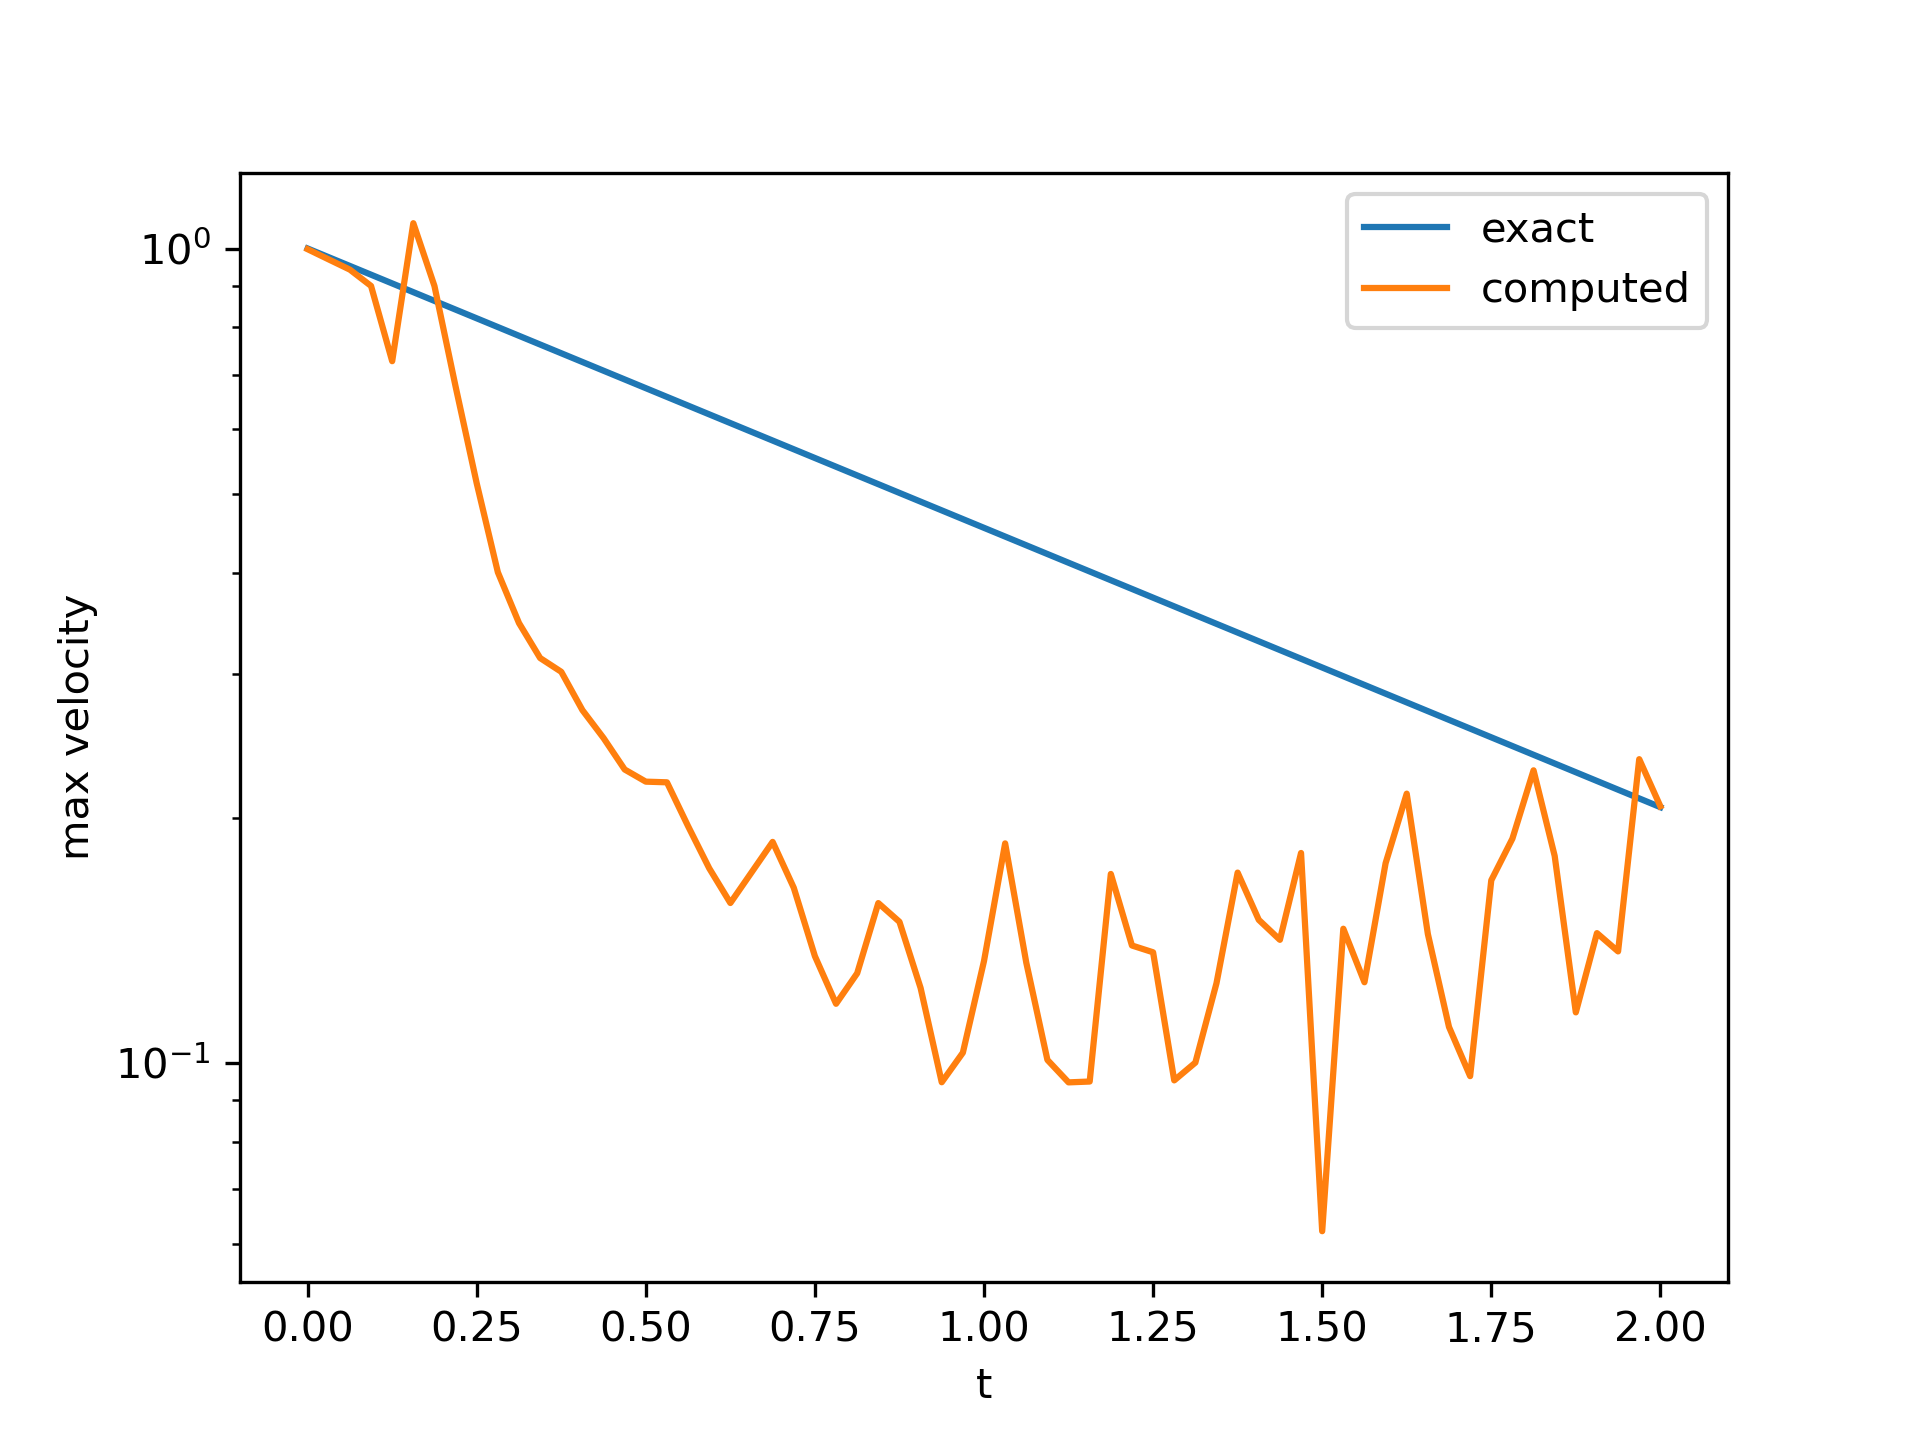
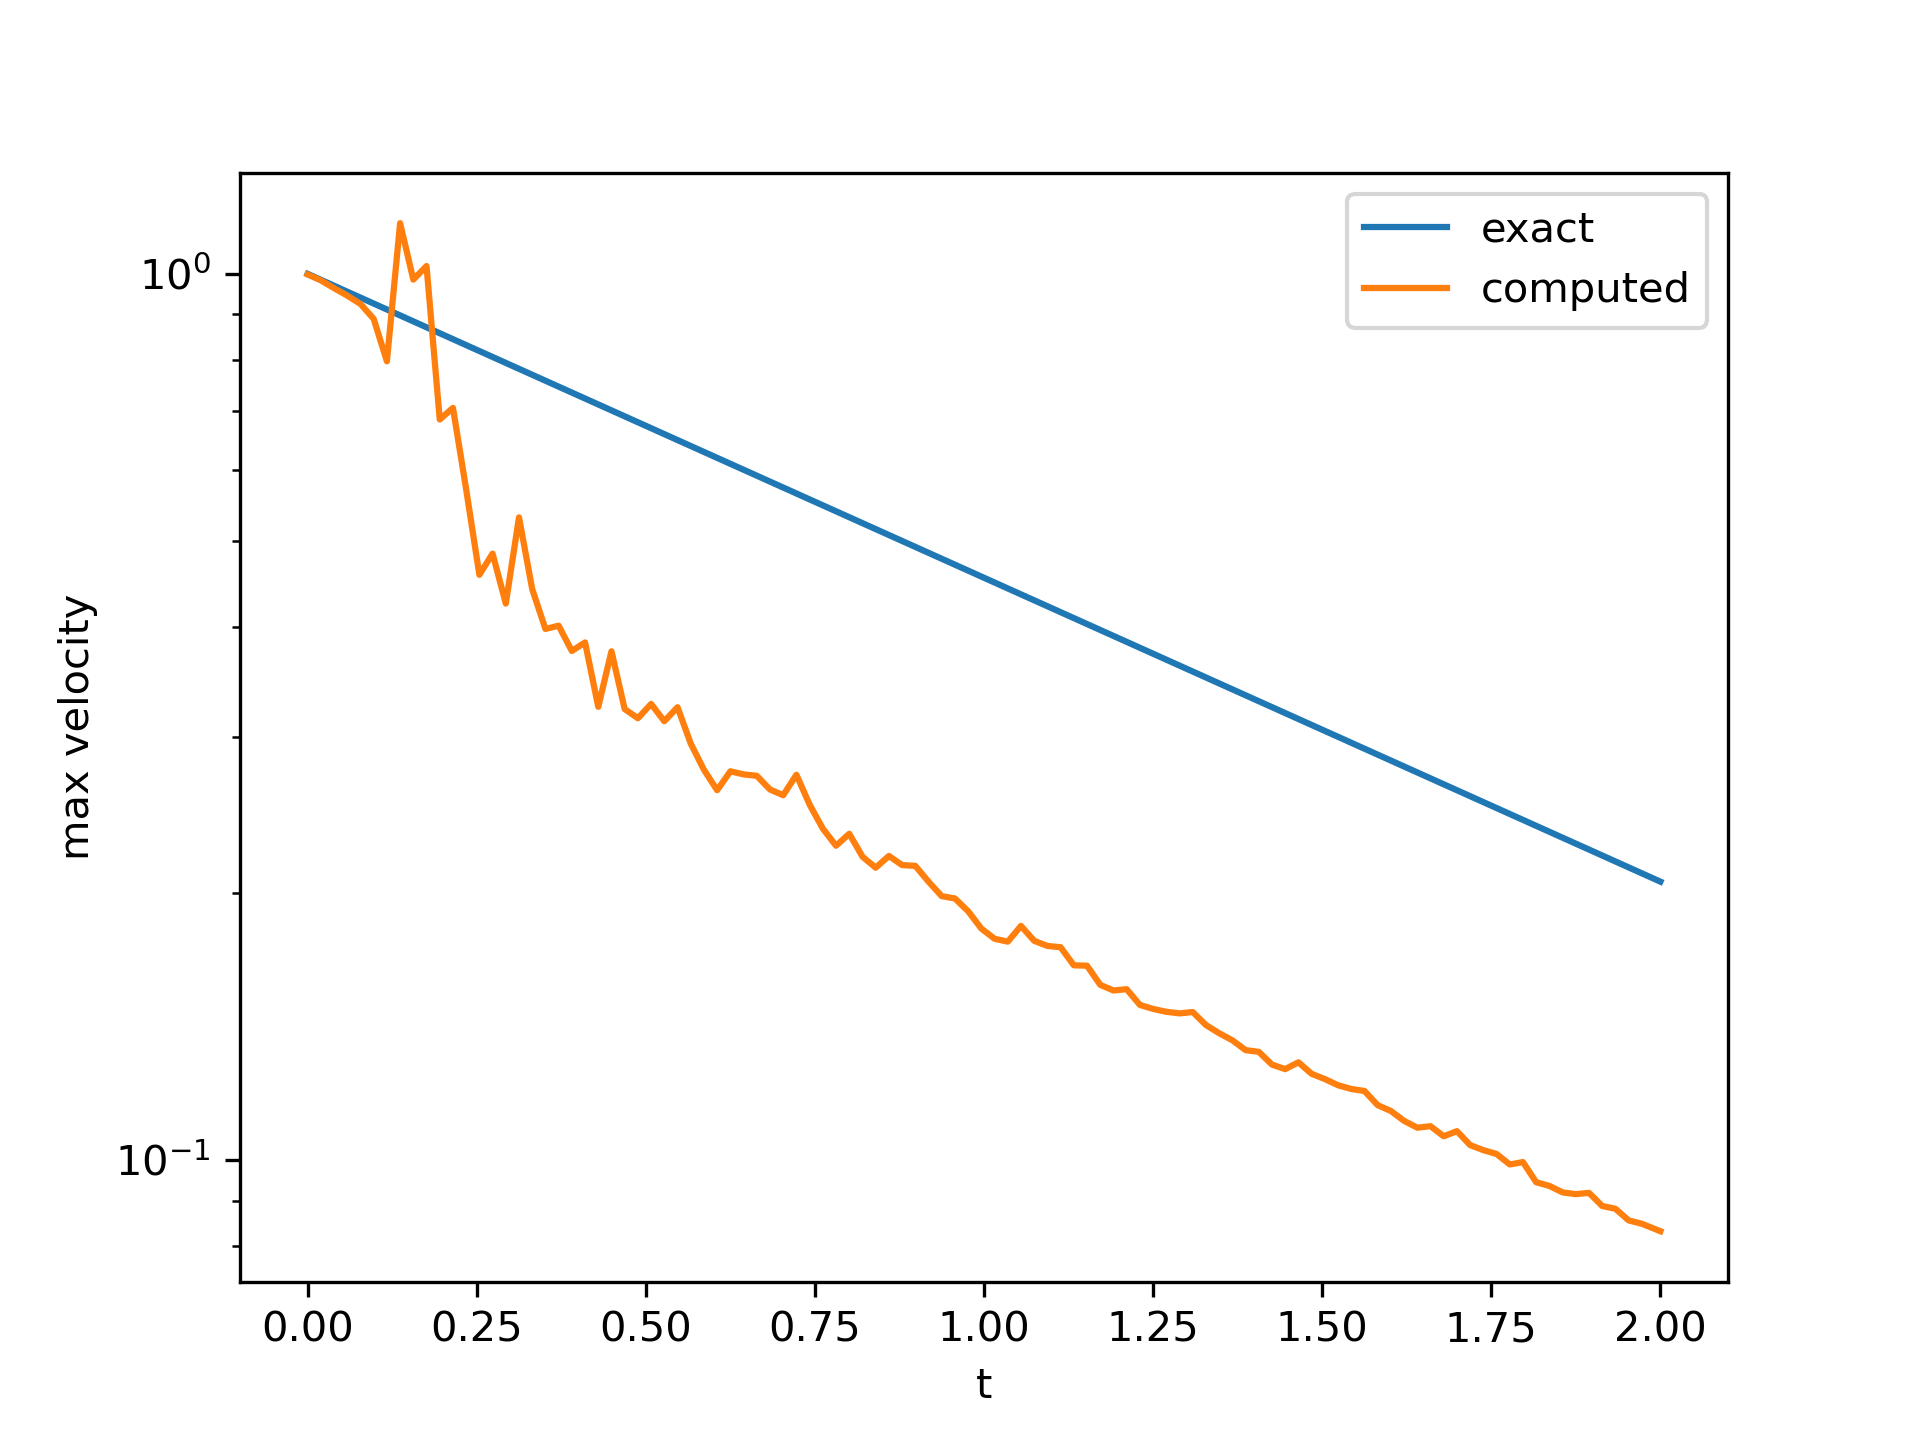
ADD: -------- 1. Plots of Taylor Green Vortex - errors

diff --git a/SLP/dpsph/equations.py b/SLP/dpsph/equations.py
@@ -110,7 +110,7 @@ class RenormalizationTensor2D_DPSPH(Equation):
         quad_b = L00 + L11
 
         tmp1 = quad_b*quad_b - 4*Det
-        
+
         if tmp1 < 0:
             d_lmda[d_idx] = 1.0
         else:
@@ -130,113 +130,6 @@ class RenormalizationTensor2D_DPSPH(Equation):
         d_L01[d_idx] = -1.0*L01/Det 
         d_L10[d_idx] = -1.0*L10/Det 
         d_L11[d_idx] = L00/Det   
-
-class ParticleShiftingTechnique(Equation):
-    r"""*Particle-Shifting Technique employed in
-        Delta_plus SPH scheme*
-
-        ..math::
-            \mathbf{r_i}^\ast=\mathbf{r_i}+\delta\mathbf{\hat{r_i}}
-        
-        where, 
-
-        ..math::
-            \delta\mathbf{\hat{r_i}}=\begin{cases}
-                0  & ,\lambda_i\in[0,0.4) \\
-                (\mathbb{I}-\mathbf{n_i}\otimes\mathbf{n_i})\delta\mathbf{r_i} 
-                & ,\lambda_i\in[0.4, 0.75] \\
-                \delta\mathbf{r_i} & ,\lambda_i\in(0.75,1]
-            \end{cases}
-
-        ..math::
-            \delta\mathbf{r_i}=\frac{-\Delta t c_o(2h)^2}{h_i}.\sum_j\bigg[1+R
-            \bigg(\frac{W_{ij}}{W(\Delta p)}\bigg)^n\bigg]\nabla_i W_{ij}\bigg(
-            \frac{m_j}{\rho_i+\rho_j}\bigg)
-
-        ..math::
-            \mathbf{n_i}=\frac{\langle\nabla\lambda_i\rangle}{|\langle\nabla
-            \lambda_i\rangle|}
-
-        ..math::
-            \langle\nabla\lambda_i\rangle=\sum_j(\lambda_j-\lambda_i)\otimes
-            \mathbb{L}_i\nabla_i W_{ij}V_j
-
-        ..math::
-            \lambda_i=\text{min}\big(\text{eigenvalue}(\mathbb{L_i^{-1}})\big)
-
-        ..math::
-            \mathbb{L_i}=\bigg[\sum_j\mathbf{r_{ji}}\otimes\nabla_i W_{ij}V_j
-            \bigg]^{-1}
-
-
-        References:
-        -----------
-        .. [Sun2017] Sun, P. N., et al. “The δ p l u s -SPH Model: Simple
-        Procedures for a Further Improvement of the SPH Scheme.” Computer 
-        Methods in Applied Mechanics and Engineering, vol. 315, Mar. 2017, pp. 
-        25–49. DOI.org (Crossref), doi:10.1016/j.cma.2016.10.028.
-
-        .. [Marrone2011] Marrone, S., et al. “δ-SPH Model for Simulating Violent
-        Impact Flows.” Computer Methods in Applied Mechanics and Engineering, 
-        vol. 200, no. 13–16, Mar. 2011, pp. 1526–42. DOI.org (Crossref), 
-        doi:10.1016/j.cma.2010.12.016.
-
-        Parameters:
-        -----------
-        R_coeff : float
-            Artificial pressure coefficient
-
-        n_exp : float
-            Artificial pressure exponent
-
-        c0 : float
-            Maximum speed of sound expected in the system (:math:`c0`)
-
-        H : float
-            Kernel smoothing length (:math:`h`)
-            
-        dt : float
-            Time step of integrator
-    """
-    def __init__(self, dest, sources, R_coeff, n_exp, c0, H, dt):
-        r'''
-        Parameters:
-        -----------
-        R_coeff : float
-            Artificial pressure coefficient
-
-        n_exp : float
-            Artificial pressure exponent
-
-        c0 : float
-            Maximum speed of sound expected in the system (:math:`c0`)
-
-        H : float
-            Kernel smoothing length (:math:`h`)
-            
-        dt : float
-            Time step of integrator
-        '''       
-        self.R_coeff = R_coeff
-        self.n_exp = n_exp
-        self.c0 = c0
-        self.H = H
-        self.dt = dt
-
-        self.CONST = -1.0*dt*c0*4*H*H
-
-        super(ParticleShiftingTechnique, self).__init__(dest, sources)
-
-    def initialize(self, d_idx, d_del_x, d_del_y):
-        d_del_x[d_idx] = 0.0
-        d_del_y[d_idx] = 0.0
-
-    def loop(self, d_idx, s_idx, d_d_x, d_d_y, d_rho, s_rho, s_m, DWIJ, WIJ):
-
-        #######################################
-        #### Code is currently being written!!
-        #######################################
-        pass
 
 class AverageSpacing(Equation):
     r"""*Average particle spacing in the neighbourhood of the :math:`i^{th}` 
@@ -348,3 +241,121 @@ class RDGC_DPSPH(Equation):
 
         d_grad_rho1[d_idx] += rhoji*tmp1*Vj
         d_grad_rho2[d_idx] += rhoji*tmp2*Vj
+
+class ParticleShiftingTechnique(Equation):
+    r"""*Particle-Shifting Technique employed in
+        Delta_plus SPH scheme*
+
+        ..math::
+            \mathbf{r_i}^\ast=\mathbf{r_i}+\delta\mathbf{\hat{r_i}}
+        
+        where, 
+
+        ..math::
+            \delta\mathbf{\hat{r_i}}=\begin{cases}
+                0  & ,\lambda_i\in[0,0.4) \\
+                (\mathbb{I}-\mathbf{n_i}\otimes\mathbf{n_i})\delta\mathbf{r_i} 
+                & ,\lambda_i\in[0.4, 0.75] \\
+                \delta\mathbf{r_i} & ,\lambda_i\in(0.75,1]
+            \end{cases}
+
+        ..math::
+            \delta\mathbf{r_i}=\frac{-\Delta t c_o(2h)^2}{h_i}.\sum_j\bigg[1+R
+            \bigg(\frac{W_{ij}}{W(\Delta p)}\bigg)^n\bigg]\nabla_i W_{ij}\bigg(
+            \frac{m_j}{\rho_i+\rho_j}\bigg)
+
+        ..math::
+            \mathbf{n_i}=\frac{\langle\nabla\lambda_i\rangle}{|\langle\nabla
+            \lambda_i\rangle|}
+
+        ..math::
+            \langle\nabla\lambda_i\rangle=\sum_j(\lambda_j-\lambda_i)\otimes
+            \mathbb{L}_i\nabla_i W_{ij}V_j
+
+        ..math::
+            \lambda_i=\text{min}\big(\text{eigenvalue}(\mathbb{L_i^{-1}})\big)
+
+        ..math::
+            \mathbb{L_i}=\bigg[\sum_j\mathbf{r_{ji}}\otimes\nabla_i W_{ij}V_j
+            \bigg]^{-1}
+
+
+        References:
+        -----------
+        .. [Sun2017] Sun, P. N., et al. “The δ p l u s -SPH Model: Simple
+        Procedures for a Further Improvement of the SPH Scheme.” Computer 
+        Methods in Applied Mechanics and Engineering, vol. 315, Mar. 2017, pp. 
+        25–49. DOI.org (Crossref), doi:10.1016/j.cma.2016.10.028.
+
+        .. [Marrone2011] Marrone, S., et al. “δ-SPH Model for Simulating Violent
+        Impact Flows.” Computer Methods in Applied Mechanics and Engineering, 
+        vol. 200, no. 13–16, Mar. 2011, pp. 1526–42. DOI.org (Crossref), 
+        doi:10.1016/j.cma.2010.12.016.
+
+        Parameters:
+        -----------
+        R_coeff : float
+            Artificial pressure coefficient
+
+        n_exp : float
+            Artificial pressure exponent
+
+        c0 : float
+            Maximum speed of sound expected in the system (:math:`c0`)
+
+        H : float
+            Kernel smoothing length (:math:`h`)
+            
+        dt : float
+            Time step of integrator
+
+        dim : integer
+            Number of dimensions
+    """
+    def __init__(self, dest, sources, R_coeff, n_exp, c0, H, dt, dim):
+        r'''
+        Parameters:
+        -----------
+        R_coeff : float
+            Artificial pressure coefficient
+
+        n_exp : float
+            Artificial pressure exponent
+
+        c0 : float
+            Maximum speed of sound expected in the system (:math:`c0`)
+
+        H : float
+            Kernel smoothing length (:math:`h`)
+            
+        dt : float
+            Time step of integrator
+
+        dim : integer
+            Number of dimensions
+        '''       
+        if dim != 2:
+            raise ValueError("RDGC_DPSPH - Dimension must be 2!")
+        else:
+            self.dim = dim
+
+        self.R_coeff = R_coeff
+        self.n_exp = n_exp
+        self.c0 = c0
+        self.H = H
+        self.dt = dt
+
+        self.CONST = -1.0*dt*c0*4*H*H
+
+        super(ParticleShiftingTechnique, self).__init__(dest, sources)
+
+    def initialize(self, d_idx, d_del_x, d_del_y):
+        d_del_x[d_idx] = 0.0
+        d_del_y[d_idx] = 0.0
+
+    def loop(self, d_idx, s_idx, d_d_x, d_d_y, d_rho, s_rho, s_m, DWIJ, WIJ):
+
+        #######################################
+        #### Code is currently being written!!
+        #######################################
+        pass

diff --git a/SLP/Taylor_Green_3.py b/SLP/Taylor_Green_3.py
@@ -58,7 +58,7 @@ class Taylor_Green(Application):
         '''
 
         # Simulation Parameters
-        self.nx = 80
+        self.nx = 25
         self.re = 100.0
         self.U = 1.0
         self.L = 1.0
@@ -160,6 +160,10 @@ class Taylor_Green(Application):
                         dest='fluid', sources=['fluid'], dim=2
                     ),
 
+                    AverageSpacing(
+                        dest='fluid', sources=['fluid'], dim=2
+                    ),
+
                     ContinuityEquation_RDGC_DPSPH(
                         dest='fluid', sources=['fluid'], delta=0.1, c0=self.c0, 
                         H=self.h0, dim=2
@@ -237,21 +241,21 @@ class Taylor_Green(Application):
         plt.xlabel('t')
         plt.ylabel('max velocity')
         plt.legend()
-        fig = os.path.join(self.output_dir, "decay_dpsph_2.png")
+        fig = os.path.join(self.output_dir, "decay_dpsph_3.png")
         plt.savefig(fig, dpi=300)
 
         plt.clf()
         plt.plot(t, linf)
         plt.xlabel('t')
         plt.ylabel(r'$L_\infty$ error')
-        fig = os.path.join(self.output_dir, "linf_error_dpsph_2.png")
+        fig = os.path.join(self.output_dir, "linf_error_dpsph_3.png")
         plt.savefig(fig, dpi=300)
 
         plt.clf()
         plt.plot(t, l1, label="error")
         plt.xlabel('t')
         plt.ylabel(r'$L_1$ error')
-        fig = os.path.join(self.output_dir, "l1_error_dpsph_2.png")
+        fig = os.path.join(self.output_dir, "l1_error_dpsph_3.png")
         plt.savefig(fig, dpi=300)
 
 ################################################################################

diff --git a/SLP/Taylor_Green.py b/SLP/Taylor_Green.py
@@ -90,7 +90,7 @@ class Taylor_Green(Application):
         # Simulation Parameters
         self.remesh = 0
 
-        self.nx = 50
+        self.nx = 80
         self.re = 100.0
         self.U = 1.0
         self.L = 1.0
@@ -291,7 +291,7 @@ class Taylor_Green(Application):
         plt.plot(t, l1, label="error")
         plt.xlabel('t')
         plt.ylabel(r'$L_1$ error')
-        fig = os.path.join(self.output_dir, "l1_erro_dpsph_1.png")
+        fig = os.path.join(self.output_dir, "l1_error_dpsph_1.png")
         plt.savefig(fig, dpi=300)
 
 ################################################################################
